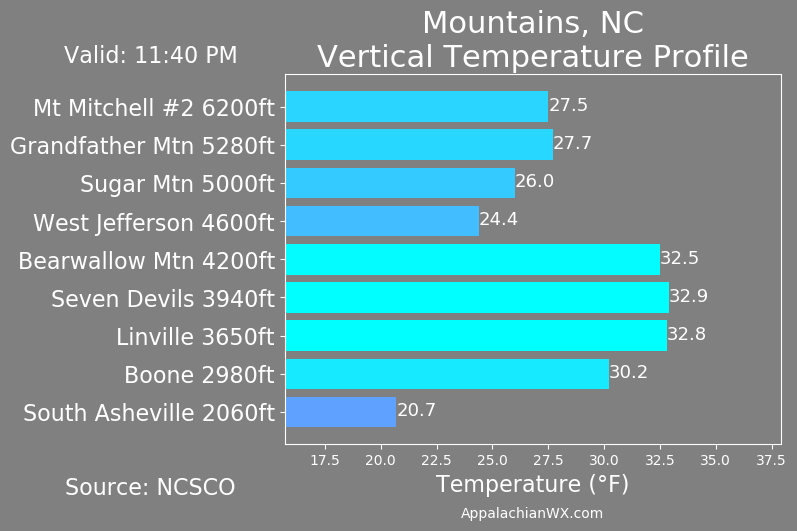
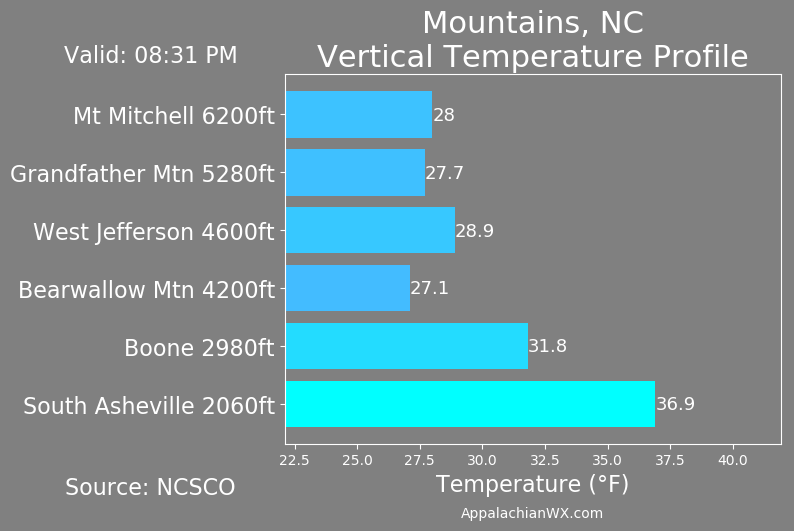
Rays weather HTTP forbidden

diff --git a/temp_plot.py b/temp_plot.py
@@ -13,7 +13,7 @@ from datetime import datetime
 
 def wncbar():
 
-    names = ('South Asheville 2060ft', 'Boone 2980ft', 'Linville 3650ft', 'Seven Devils 3940ft', 'Bearwallow Mtn 4200ft', 'West Jefferson 4600ft','Sugar Mtn 5000ft','Grandfather Mtn 5280ft','Mt Mitchell #2 6200ft')#'Valle Crucis 2670ft',,'Mt Mitchell #1 6600ft
+    names = ('South Asheville 2060ft', 'Boone 2980ft', 'Bearwallow Mtn 4200ft', 'West Jefferson 4600ft','Grandfather Mtn 5280ft','Mt Mitchell 6200ft')#'Valle Crucis 2670ft',,'Mt Mitchell #1 6600ft 'Linville 3650ft', 'Seven Devils 3940ft', ,'Sugar Mtn 5000ft'
     
     barnames = []
     Temperature = []
@@ -102,40 +102,40 @@ def wncbar():
 
 
     #RaysWeather
-    url = 'http://averyweather.com/'
-    html = urllib.request.urlopen(url)
-    soup = BeautifulSoup(html,features='html.parser')
-    Map = str(soup.find('map', {"name":"cc"}))
+    #url = 'http://averyweather.com/'
+    #html = urllib.request.urlopen(url)
+    #soup = BeautifulSoup(html,features='html.parser')
+    #Map = str(soup.find('map', {"name":"cc"}))
 
     
-    try:
+    #try:
 
 
         #Linville 3655'
-        Area_1 = Map.split('<area')
-        Area_2 = str(Area_1[5])
-        Temp_1 = Area_2.split('Temp:&lt;/td&gt;&lt;td&gt;')
-        Temp_2 = str(Temp_1[1])
-        Temp_3 = Temp_2.split('°F')
-        Data = eval(Temp_3[0])
-        Temperature.append(Data)
-        barnames.append(names[i])
-        i = i + 1
+        #Area_1 = Map.split('<area')
+        #Area_2 = str(Area_1[5])
+        #Temp_1 = Area_2.split('Temp:&lt;/td&gt;&lt;td&gt;')
+        #Temp_2 = str(Temp_1[1])
+        #Temp_3 = Temp_2.split('°F')
+        #Data = eval(Temp_3[0])
+        #Temperature.append(Data)
+        #barnames.append(names[i])
+        #i = i + 1
 
         #Seven Devils 3944'
-        Area_1 = Map.split('<area')
-        Area_2 = str(Area_1[11])
-        Temp_1 = Area_2.split('Temp:&lt;/td&gt;&lt;td&gt;')
-        Temp_2 = str(Temp_1[1])
-        Temp_3 = Temp_2.split('°F')
-        Data = eval(Temp_3[0])
-        Temperature.append(Data)
-        barnames.append(names[i])
-        i = i + 1
+        #Area_1 = Map.split('<area')
+        #Area_2 = str(Area_1[11])
+        #Temp_1 = Area_2.split('Temp:&lt;/td&gt;&lt;td&gt;')
+        #Temp_2 = str(Temp_1[1])
+        #Temp_3 = Temp_2.split('°F')
+        #Data = eval(Temp_3[0])
+        #Temperature.append(Data)
+        #barnames.append(names[i])
+        #i = i + 1
 
-    except:
-        print("Linville or Seven Devils Missing")
-        i = i + 1
+    #except:
+        #print("Linville or Seven Devils Missing")
+        #i = i + 1
 
 
     #CRONOS
@@ -193,25 +193,25 @@ def wncbar():
         i = i + 1
 
     #RaysWeather
-    url = 'http://averyweather.com/'
-    html = urllib.request.urlopen(url)
-    soup = BeautifulSoup(html,features='html.parser')
-    Map = str(soup.find('map', {"name":"cc"}))
+    #url = 'http://averyweather.com/'
+    #html = urllib.request.urlopen(url)
+    #soup = BeautifulSoup(html,features='html.parser')
+    #Map = str(soup.find('map', {"name":"cc"}))
 
     
-    try:
+    #try:
 
 
         #Sugar Mountain 5000'
-        Area_1 = Map.split('<area')
-        Area_2 = str(Area_1[7])
-        Temp_1 = Area_2.split('Temp:&lt;/td&gt;&lt;td&gt;')
-        Temp_2 = str(Temp_1[1])
-        Temp_3 = Temp_2.split('°F')
-        Data = eval(Temp_3[0])
-        Temperature.append(Data)
-        barnames.append(names[i])
-        i = i + 1
+        #Area_1 = Map.split('<area')
+        #Area_2 = str(Area_1[7])
+        #Temp_1 = Area_2.split('Temp:&lt;/td&gt;&lt;td&gt;')
+        #Temp_2 = str(Temp_1[1])
+        #Temp_3 = Temp_2.split('°F')
+        #Data = eval(Temp_3[0])
+        #Temperature.append(Data)
+        #barnames.append(names[i])
+        #i = i + 1
 
         #Beech Mountain 5300'
         #Area_1 = Map.split('<area')
@@ -224,9 +224,9 @@ def wncbar():
         #barnames.append(names[i])
         #i = i + 1
 
-    except:
-        print("Sugar or Beech Missing")
-        i = i + 1
+    #except:
+        #print("Sugar or Beech Missing")
+        #i = i + 1
 
         
     #CRONOS
@@ -248,6 +248,7 @@ def wncbar():
         Temp_7 = str(Temp_6[0])
         Temp_8 = Temp_7.strip(' ')
         Temp = eval(Temp_8)
+        print("MITC - " + str(Temp))
         if Temp > (-20):
             Temperature.append(Temp)
             barnames.append(names[i])
@@ -280,6 +281,7 @@ def wncbar():
         Temp_7 = str(Temp_6[0])
         Temp_8 = Temp_7.strip(' ')
         Temp = eval(Temp_8)
+        print("MITC - " + str(Temp))
         Temperature.append(Temp)
         barnames.append(names[i])
         i = i + 1
